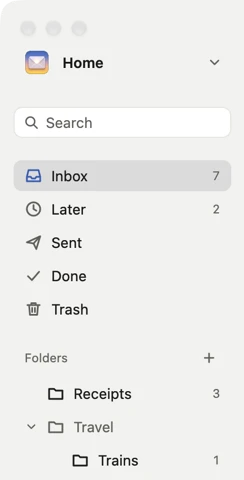
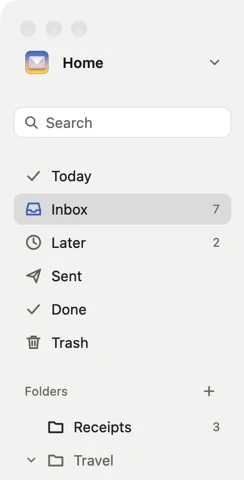
Site: recapture screenshots with Done at the toolbar's end and Today in the sidebar
Claude-Session: https://claude.ai/code/session_013SQgeHioqiMB6p9JPGMZRn

diff --git a/site/index.html b/site/index.html
@@ -132,7 +132,7 @@
       <section aria-labelledby="whole">
         <h2 id="whole">One window, three panes.</h2>
         <div class="shot">
-          <img src="lagom-light.webp" width="1600" height="1000" alt="The Lagom main window: a sidebar with Inbox, Later, Sent, Done and Trash, a message list with the selected row in blue, and an open email with Done, Reply and Later buttons.">
+          <img src="lagom-light.webp" width="1600" height="1000" alt="The Lagom main window: a sidebar with Today, Inbox, Later, Sent, Done and Trash, a message list with the selected row in blue, and an open email with Reply, Later and Done buttons.">
         </div>
       </section>
 
@@ -140,11 +140,11 @@
         <h2 id="details">Details</h2>
         <div class="details">
           <article class="tile t1">
-            <figure><img src="detail-toolbar.webp" width="840" height="230" alt="The reading toolbar: Done, Reply and Later, above an open email from Ingrid Holm."></figure>
+            <figure><img src="detail-toolbar.webp" width="880" height="230" alt="The reading toolbar: Reply and Later at the left, Done in blue at the right, above an open email from Ingrid Holm."></figure>
             <div><h3>Three buttons</h3><p>Done, Reply and Later. E, R and L do the same from the keyboard.</p></div>
           </article>
           <article class="tile t2">
-            <figure><img src="detail-sidebar.webp" width="244" height="480" alt="The sidebar: search, Inbox with seven unread, Later, Sent, Done and Trash, then folders."></figure>
+            <figure><img src="detail-sidebar.webp" width="244" height="480" alt="The sidebar: search, Today, Inbox with seven unread, Later, Sent, Done and Trash, then folders."></figure>
             <div><h3>Inbox, Later, Done</h3><p>Three places for mail. Folders when you need them.</p></div>
           </article>
           <article class="tile t3">
